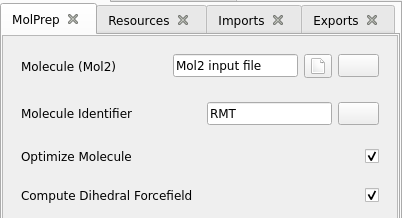
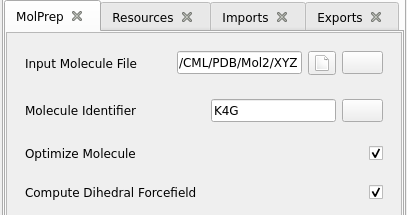
No obabel (#28)
* updated MolPrep WaNo and no openbabel in quickstart guide

* updated to anyfile MolPrep

* updated to any-input MolPrep

* File file <- remove extra "file"

---------

diff --git a/docs/source/user_guide/simulation_setup.rst b/docs/source/user_guide/simulation_setup.rst
@@ -6,12 +6,34 @@ Simulation Setup
 Prerequesits
 -------------
 * **Nanoscope Installation**: Ensure that Nanoscope is installed on your system. If not, follow the  :ref:`getting_started_installation` to set it up.
-* **Open Babel**: Install `Open Babel <http://openbabel.org/docs/index.html>`_ for molecule file conversion tasks.
 
 
 Input for Molecules
 ------------------------------
-1. Drawing Molecules From Scratch
+
+1. Input File Formats
+^^^^^^^^^^^^^^^^^^^^^^^^^^
+The following file formats are supported as input for the first module of the nanoscope workflow, `MolPrep`:
+
+* `.mol` (e.g. as downloaded by `MolView`, see step 2)
+* `.pbd`
+* `.mol2`
+* `.cml`
+
+
+.. note:: To ensure that existing files are properly formatted, or in case `MolPrep` crashes due to incorrect input format, we recommend to convert the input using openbabel:
+
+        .. code-block:: bash
+
+           obabel -i<your_input_format> -I<your_input_molecule> -oxyz -OMyMol.xyz
+
+    `<your_input_format>` can be any format accepted by openbabel, such as `mol2`, `pdb`, `xyz`, or simply a smiles-code or InChI, with `<your_input_molecule>` being the filename of the input file or simply the string for smiles or InChI. Check the `Open Babel User Guide <http://openbabel.org/docs/index.html>`_ for reference.
+
+
+.. note:: If you generated an initial 3D-structure from smiles or InChI, double check that the initial conformation is reasonable, e. g. by visualization with `jmol <https://jmol.sourceforge.net/>`_.
+
+
+2. Drawing Molecules from Scratch
 ^^^^^^^^^^^^^^^^^^^^^^^^^^^^^^^^^^
 
     If you don't have any input for your molecule yet, a good starting point are drawing tools such as MolView. In the following we use MolView as an example.
@@ -19,33 +41,14 @@ Input for Molecules
     a. Open `MolView <https://www.nanomatch.de/nanomatch-files/molview/>`_  in your web browser.
     b. Design a molecule of your choice, e.g. a biphenyl molecule.
     c. Use the ``clean`` and the ``2D to 3D`` buttons to generate a 3D structure of the molecule.
+    d. In MolView, download the 3D molecule file with ``Tools -> MOL file``
 
         .. figure:: simulation_setup/quick_start_0.png
            :alt: Design a molecule with MolView
            :width: 100%
            :align: center
-        
+
            Design a molecule with MolView
-
-    d. In MolView, download the 3D molecule file with ``Tools -> MOL file`` and proceed with step 2 below.
-
-2. Formatting existing input
-^^^^^^^^^^^^^^^^^^^^^^^^^^^^
-
-    Existing files as well as newly generated input files need to be converted into proper mol2 format to use it as
-    input for Nanoscope. The safest way to do so is a 2-step conversion via xyz using openbabel:
-
-        .. code-block:: bash
-
-           obabel -i<your_input_format> -I<your_input_molecule> -oxyz -OMyMol.xyz
-           obabel MyMol.xyz -omol2 -OMyMol.mol2
-
-    `<your_input_format>` can be any format accepted by openbabel, such as `mol2`, `pdb`, `xyz`, or simply a smiles-code or InChI, with `<your_input_molecule>` being the filename of the input file or simply the string for smiles or InChI. Check the `Open Babel User Guide <http://openbabel.org/docs/index.html>`_ for reference.
-
-
-    .. note:: Even if your original input is a mol2-file, we recommend to follow this 2-step procedure to make sure it is properly formatted.
-
-    .. note:: If you generated an initial 3D-structure from smiles or InChI, double check that the initial conformation is reasonable, e. g. by visualization with `jmol <https://jmol.sourceforge.net/>`_.
 
 
 
@@ -107,7 +110,7 @@ To simulate a pristine layer we construct a linear worklfow in SimStack comprisi
 
 **MolPrep**:
 
-    Load an input mol2-file from your hard drive using the button right next to the input field `Molecule (Mol2)`. 
+    Load an input file from your hard drive using the button right next to the input field `Input Molecule File`.
 
 
 .. image:: settings/Deposit3.png

diff --git a/docs/source/getting_started/quick_start.rst b/docs/source/getting_started/quick_start.rst
@@ -11,35 +11,26 @@ This guide provides step-by-step instructions for depositing a simple thin-film 
 Prerequesits
 -------------
 * **Nanoscope Installation**: Ensure that Nanoscope is installed on your system. If not, follow the  :ref:`getting_started_installation` to set it up.
-* **Open Babel**: Install Open Babel for molecule file conversion tasks.
 
 .. _getting_started_quick_start_setup:
 
 Simulation Setup
 -----------------
 
-a. Design the Molecule.
-^^^^^^^^^^^^^^^^^^^^^^^^^^^
+a. Design and Download the Molecule.
+^^^^^^^^^^^^^^^^^^^^^^^^^^^^^^^^^^^^
     1. Open `MolView <https://www.nanomatch.de/nanomatch-files/molview/>`_  in your web browser.
     2. Design a molecule of your choice, e.g. a biphenyl molecule.
     3. Use the ``clean`` and the ``2D to 3D`` buttons to generate a 3D structure of the molecule.
+    4. Download the 3D molecule file with ``Tools -> MOL file``.
 
         .. figure:: quick_start/quick_start_0.png
            :alt: Design a molecule with MolView
            :width: 100%
            :align: center
-        
+
            Design a molecule with MolView
 
-b. Download and Convert the Molecule File.
-^^^^^^^^^^^^^^^^^^^^^^^^^^^^^^^^^^^^^^^^^^
-    1. In MolView, download the 3D molecule file with ``Tools -> MOL file``.
-    2. Convert the molecule to a mol2 file suitable for the MolPrep module using:
-    
-        .. code-block:: bash
-
-           obabel MolView.mol -oxyz -OMyMol.xyz
-           obabel MyMol.xyz -omol2 -OMyMol.mol2
 
     .. note:: We use biphenyl as a simple example as it allows for quick computation. It is not meant as a physical case study.
 
@@ -76,7 +67,7 @@ e. Set Up Individual Modules
 
     1. **MolPrep**.
 
-        * Set the `Molecule (Mol2)` file: select the molecule you created above.
+        * Set the `Input Molecule File`: select the molecule you created above.
         * Adjust other settings as shown below.
 
         .. figure:: quick_start/quick_start_molprep.png

diff --git a/docs/source/user_guide/settings.rst b/docs/source/user_guide/settings.rst
@@ -18,8 +18,8 @@ MolPrep
 .. +--------------------+-------------------------------------------------------+----------------+
 .. | Setting            | Description                                           | Standard value |
 .. +====================+=======================================================+================+
-.. | Molecule (Mol2)    |Input file in mol2 format. Refer to the first steps of | N/A            |
-.. |                    |:ref:`getting_started_quick_start_setup` for           |                |
+.. | Input Molecule     |Input file in mol, mol2, pdb, cml or xyz format. Refer to the first steps of | N/A            |
+.. | File               |:ref:`getting_started_quick_start_setup` for           |                |
 .. |                    |instructions how to generate input files.              |                |
 .. +--------------------+-------------------------------------------------------+----------------+
 .. | Molecule Identifier|A 3-letter numeric string to label the molecule        | ABC (random)   |
@@ -45,9 +45,9 @@ MolPrep
         </thead>
         <tbody>
             <tr>
-                <td style="padding: 8px; border: 1px solid #ddd; overflow-wrap: break-word; white-space: normal;">Molecule (Mol2)</td>
+                <td style="padding: 8px; border: 1px solid #ddd; overflow-wrap: break-word; white-space: normal;">Input Molecule File</td>
                 <td style="padding: 8px; border: 1px solid #ddd; overflow-wrap: break-word; white-space: normal;">
-                    Input file in mol2 format. Refer to the first steps of
+                    Input file in mol, mol2, pdb, cml or xyz format. Refer to the first steps of
                     <a href="#getting_started_quick_start_setup">Simulation Setup</a>
                     for instructions on how to generate input files.
                 </td>
